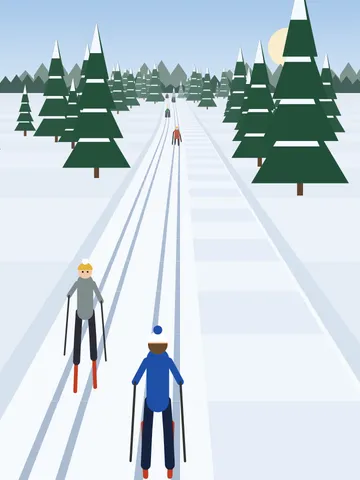
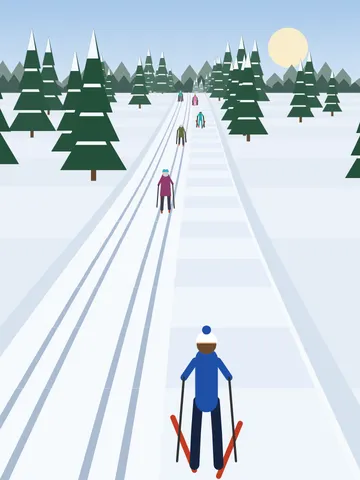
Hiihto v3: diagrams and shelf picture (#61)

diff --git a/docs/diagrams/hiihto.md b/docs/diagrams/hiihto.md
@@ -1,68 +1,83 @@
-# Hiihto: one race, from the wax to the finish
+# Hiihto: one race, from the style and wax to the finish
 
-How one race of Hiihto plays (v1). The player picks a grip wax for the day's weather, then skis
-the classic track to the finish. Taps kick, a swipe changes track, the V button is for steep
-climbs and a held finger is the tuck downhill. Grannies are overtaken on the oncoming track or
-the skating lane, and running into anyone is a fall.
+How one race of Hiihto plays (v1–v3). Since v3 the player first picks a style: classic
+(perinteinen) or skating (luistelu); a race with friends skis the host's course and style. The
+player picks a wax for the day's weather (a grip wax for classic, a glide wax for skating), then
+skis to the finish. Slower skiers are overtaken from another lane, running into anyone is a fall,
+and times are kept apart for each style.
 
 ```mermaid
 flowchart TD
-  A[Taso ja keli: lämpötila ja lumi] --> B{Valitse pitovoide}
+  Y{Yksin vai kavereiden kanssa?} -- Yksin --> S{Tyyli: perinteinen vai luistelu?}
+  Y -- Kavereiden kanssa --> K1[Isäntä valitsee huoneessa radan ja tyylin]
+  K1 --> A
+  S --> A[Taso ja keli: lämpötila ja lumi]
+  A --> B{Valitse voide}
   B -- Sopii keliin --> C[Pito ja luisto kunnossa]
-  B -- Liian kova --> D[Lipsuu mäissä]
-  B -- Liian pehmeä --> E[Lunta tarttuu pohjaan, luisto huono]
-  C --> F[Lähtö: 3, 2, 1, Hiihdä!]
-  D --> F
-  E --> F
+  B -- Liian kova pitovoide --> D[Lipsuu mäissä]
+  B -- Liian pehmeä tai väärä luistovoide --> E[Lunta tarttuu pohjaan, luisto huono]
+  C --> K2{Kaverit mukana?}
+  D --> K2
+  E --> K2
+  K2 -- Kyllä --> K3[Odotetaan, että kaikki voitelevat]
+  K2 -- Ei --> F[Lähtö: 3, 2, 1, Hiihdä!]
+  K3 --> F
   F --> G{Millainen mäki?}
   G -- Tasainen tai loiva --> H[Napauta tahdissa: potku]
   G -- Jyrkkä ylämäki --> I[V-nappi päälle: V-käynti]
   G -- Alamäki --> J[Sormi ruudulle: laskuasento]
-  H --> K{Mummo edessä?}
+  G -- Luistelu --> H2[Napauta vuorotellen vasen ja oikea puoli]
+  H --> K{Hitaampi edessä?}
   I --> K
   J --> K
-  K -- Kyllä --> L{Mihin pyyhkäiset?}
-  L -- Vasemmalle --> M[Vastaantulijoiden latu]
-  L -- Oikealle --> N[Luistelukaista]
-  M --> O{Tuleeko joku vastaan tai takaa?}
-  N --> O
-  O -- Ei --> P[Ohitus! Mummo sanoo jotain]
+  H2 --> K
+  K -- Kyllä --> L[Pyyhkäise toiselle kaistalle]
+  L --> O{Tuleeko joku vastaan tai takaa?}
+  O -- Ei --> P[Ohitus! Ohitettu sanoo jotain]
   O -- Kyllä, törmäys --> Q[Kaatuminen: hetki ylös noustessa]
   P --> R{Maali?}
   Q --> R
   K -- Ei --> R
   R -- Ei --> G
-  R -- Kyllä --> S{Alle aikarajan?}
-  S -- Kyllä --> T[Tähdet, ennätys ja seuraava taso tallennetaan]
-  S -- Ei --> U[Sama taso uudestaan]
+  R -- Kyllä --> S2{Alle aikarajan?}
+  S2 -- Kyllä --> T[Tähdet, ennätys ja seuraava taso tallennetaan tyylin omiin aikoihin]
+  S2 -- Ei --> U[Sama taso uudestaan]
+  T --> K4[Kavereiden kanssa: sijat, ensimmäinen maalissa voittaa]
+  U --> K4
   class A,F blue
-  class B,G,K,L,O,R,S amber
+  class Y,S,B,G,K,K2,O,R,S2 amber
   class C,P,T green
   class D,E,Q,U rose
-  class H,I,J teal
-  class M,N violet
+  class H,I,J,H2 teal
+  class L violet
+  class K1,K3,K4 violet
 ```
 
 ## Colours
 
 - **blue**: the start of a level
 - **amber**: a choice or check that decides the path
-- **teal**: the three ways of moving, by the shape of the trail
-- **violet**: the two lanes used for overtaking
+- **teal**: the ways of moving, by the style and the shape of the trail
+- **violet**: overtaking, and the race with friends
 - **green**: a good wax, a clean overtake, a level passed
 - **rose**: a wrong wax, a fall, a level failed
 
 ## Boxes
 
-- **Taso ja keli: lämpötila ja lumi**: `games/hiihto/v1/index.html` `weatherFor()`: levels 1-10 have set temperatures (`TEMPS`), later ones a random one from −18 to +3 °C. `buildCourse()` makes the course: 500 m at level 1, 100 m more each level, at most 1500 m; the second hill is always steep.
-- **Valitse pitovoide**: `drawWax()` shows four waxes with their temperature ranges as on a real tube: green, blue, violet and klister. The arrows beside the level go back to any level already opened.
-- **Lipsuu mäissä**: `waxFit()`: a wax made for colder weather loses 14 % of its grip per degree above its range (at least 35 % left), so kicks slip on climbs that a right wax holds.
-- **Lunta tarttuu pohjaan, luisto huono**: a wax made for warmer weather adds 0.02 friction per degree below its range (at most 0.06), so the skier glides badly everywhere.
+- **Yksin vai kavereiden kanssa?**: `games/hiihto/v3/index.html` `drawWax()`: alone, the panel before the race has the style switch, the level arrows and "👥 Pelaa kavereiden kanssa", which opens the shared room screen (`public/rooms.js`).
+- **Tyyli: perinteinen vai luistelu?**: `setStyle()` saves the pick in `ai-pelit:hiihto:tyyli`; v1 and v2 saves stay as they were and are classic. The opened levels (`taso`) are shared by both styles.
+- **Isäntä valitsee huoneessa radan ja tyylin**: `roomControls()` puts the level arrows and the two styles under the player list through `AiPelitRooms.extra()`; the others see who picks. At "Aloita kierros" `netStart()` sends everyone the host's level, style and a seed, so every phone has the same course and the same grannies and skaters to start with. A friend's own saved style is not changed.
+- **Taso ja keli: lämpötila ja lumi**: `weatherFor()`: levels 1-10 have set temperatures (`TEMPS`), later ones a random one from −18 to +3 °C. `buildCourse()` makes the course: 500 m at level 1, 100 m more each level, at most 1500 m; the second hill is always steep. The time limit is set for the style (`idealTime()` skis it with `botStep()`).
+- **Valitse voide**: classic shows four grip waxes (`WAXES`), skating four glide waxes (`GLIDES`), each with its temperature range.
+- **Lipsuu mäissä**: `waxFit()`: a grip wax made for colder weather loses 14 % of its grip per degree above its range (at least 35 % left), so kicks slip on climbs that a right wax holds.
+- **Lunta tarttuu pohjaan, luisto huono**: a grip wax made for warmer weather adds 0.02 friction per degree below its range (at most 0.06); a glide wax made for other weather adds 0.012 per degree off (`glideFit()`, at most 0.05).
+- **Odotetaan, että kaikki voitelevat**: `drawWait()`; the host starts the countdown once every skier has a wax (`netTick()`). A phone away pauses the race for everyone until the host presses "Jatka ilman heitä"; then the computer skis for it (`cpuTakes()`), and gives it back where it got to.
 - **Napauta tahdissa: potku**: `kick()`: each tap is one diagonal-stride kick; it grips only when the wax grips enough for the slope (`kickNeed()`), and taps faster than about 2.7 a second kick weakly.
-- **V-nappi päälle: V-käynti**: the V button (bottom left) toggles the V step: it grips on any climb but is slow on the flat and brakes downhill like a snowplough.
-- **Sormi ruudulle: laskuasento**: a finger held still for 0.2 s is the tuck (`held()`), which cuts air drag to a third.
-- **Mummo edessä?**: grannies ski the own track at about 2 m/s, slower uphill and faster downhill (`slopeFactor()`), and queue behind each other.
-- **Vastaantulijoiden latu**: the left track; classic skiers come towards you on it.
-- **Luistelukaista**: the right lane; skaters overtake from behind at 7-8 m/s and shout "Latua!" first, and the hint warns of one behind.
-- **Kaatuminen: hetki ylös noustessa**: `crash()`: 1.6 s on the ground and the speed lost, then a moment when nobody can knock you down again.
-- **Alle aikarajan?**: `finish()`: the time limit is 1.5 × the time a perfect skier needs on an empty trail (`idealTime()`); 3 stars within 1.15 ×, 2 within 1.3 ×. Saves `ai-pelit:hiihto:taso`, `:tahdet` and `:ajat`.
+- **V-nappi päälle: V-käynti**: the V button (bottom left) toggles the V step: it grips on any climb but is slow on the flat and brakes downhill like a snowplough. Classic only.
+- **Sormi ruudulle: laskuasento**: a finger held still for 0.2 s is the tuck (`held()`), which cuts air drag to a third. Both styles.
+- **Napauta vuorotellen vasen ja oikea puoli**: `push()`: a tap on the left half pushes off the left ski, on the right half the right one; the same ski twice is a weak push. Faster than the stride and needs no V step, since a skate's edge always grips.
+- **Hitaampi edessä?**: classic: grannies on the own track at about 2 m/s. Skating: fitness skaters at 3.6–5 m/s on either half of the skating lane. Both go slower uphill and faster downhill (`slopeFactor()`) and queue behind each other on their track.
+- **Pyyhkäise toiselle kaistalle**: classic: the oncoming track on the left, or the skating lane on the right, where fast skaters shout "Latua!" first. Skating: the other half of the skating lane, or the classic track, where the grannies scold.
+- **Kaatuminen: hetki ylös noustessa**: `crash()`: 1.6 s on the ground and the speed lost, then a moment when nobody can knock you down again. Friends ski through each other.
+- **Tähdet, ennätys ja seuraava taso tallennetaan tyylin omiin aikoihin**: `finish()`: 3 stars within 1.15 × the ideal time, 2 within 1.3 ×, 1 within the limit (1.5 ×). Classic saves `ajat` and `tahdet` and the online list `taso-N`; skating saves `luistelu-ajat` and `luistelu-tahdet` and the list `luistelu-N`. A race with friends is saved once (`AiPelitRooms.once()`).
+- **Kavereiden kanssa: sijat, ensimmäinen maalissa voittaa**: `standings()`: finished skiers by time, then the rest by how far they got. The host ends the race when everyone is in, or a minute after the first finish (`LATE`), and sends the places to every phone (`deliver()`); a tap goes back to the room, with the place and everyone's times there.

diff --git a/docs/diagrams/moninpeli.md b/docs/diagrams/moninpeli.md
@@ -22,6 +22,7 @@ flowchart TD
     L1[Huoneruutu: Luo huone tai Liity koodilla] --> L2[Koodi ja QR-koodi, pelaajalista]
     L10[Avoimet huoneet: liity napautuksella] --> L1
     L2 --> L11[🌍 Julkinen-kytkin isännällä]
+    L2 --> L12[Pelin omat valinnat pelaajalistan alla]
     L2 --> L3[Aloita kierros]
     L4[Yhdistää uudelleen, palaa huoneeseen latauksen jälkeen]
     L5{Onko joku kierroksen puhelin poissa?}
@@ -54,7 +55,7 @@ flowchart TD
   G5 --> L7
   L7 --> L2
   class G1,G2,G3,G4,G5,G6 teal
-  class L1,L2,L3,L4,L7,L9,L10,L11 blue
+  class L1,L2,L3,L4,L7,L9,L10,L11,L12 blue
   class C1,C2 violet
   class L5,L8 amber
   class L6,G7 rose
@@ -76,6 +77,7 @@ flowchart TD
 - **🌍 Julkinen-kytkin isännällä**: the host's checkbox in the room (`net.pub`, off for a new room, kept over a reload in `ai-pelit:_huone:nyt`). `tellList()` sends the room `{t: '_list', on}`: on while public, no round runs and the room screen shows on the host (not during the game's own end screen), and again every minute while on.
 - **Julkisten huoneiden lista**: one more object of the `Room` class, named `lobby` (`lobby()` in `rooms/worker.js`). Each room's `tell()` puts itself on it while the host's `_list` is on, the host is connected, a game is named and there is space, and takes itself off otherwise. Newest first, at most 10 per game; a listing not refreshed for 3 minutes is dropped. Only `GET /api/rooms?game=` reaches it from outside (`publicRooms()` in `server/api.js`).
 - **Koodi ja QR-koodi, pelaajalista**: the code, a QR code of `<version>/?huone=<KOODI>` drawn in the page (`qrMatrix()`), and who is in, the host with 👑, someone without a connection greyed out. A QR link joins at once.
+- **Pelin omat valinnat pelaajalistan alla**: `extra(node)` in `public/rooms.js`: a game's own element shown in the room under the player list, kept up to date by the game. Hiihto v3 puts the host's level and style there (`roomControls()`).
 - **Aloita kierros**: host only, once `data-min` phones are connected. Sends `_start` with the round id and players, and fires the game's `on('start')` on every phone.
 - **Kierros alkaa: isäntä pyörittää peliä**: the game's `on('start')`. The host runs the rules and the clock, and stops the clock while `AiPelitRooms.paused`. Kirkkis: `hostStart()` makes the cast (the phones in the round, then computer players up to five), picks the seeker and sends the round (`kr`); a guest waits for it (`phase = 'wait'`), and builds its cast from it (`castFrom()`).
 - **Isäntä lähettää tilanteen monta kertaa sekunnissa**: the game's `AiPelitRooms.send()`. A phone that joined after the round began hears none of it (`net.listening` in `onMessage()`), and waits for the next round. Kirkkis: `hostSend()` (`ks`), 12 times a second, with what happened since (`happen()`).
